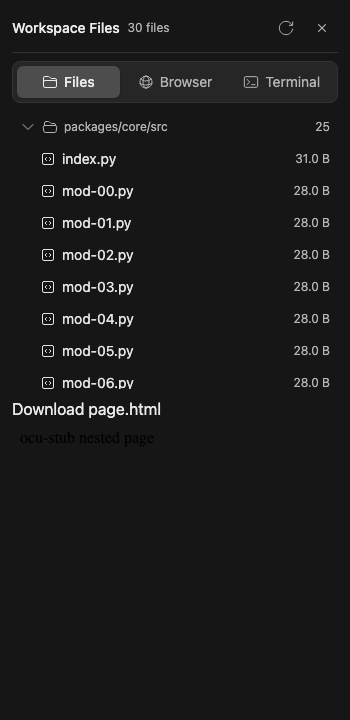
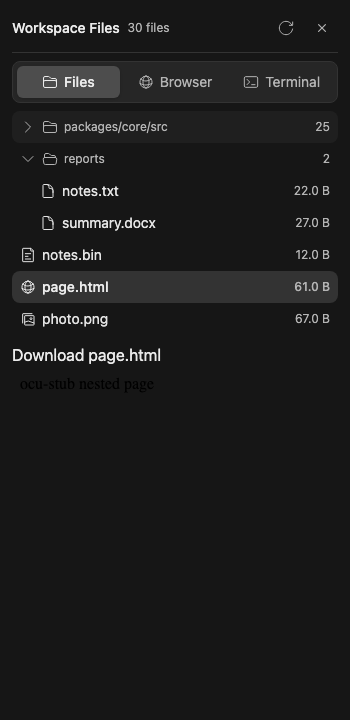
fix(webui): isolate file tree identity and collapse keys

diff --git a/src/lib/components/chat/WorkspaceArtifact.tree.test.ts b/src/lib/components/chat/WorkspaceArtifact.tree.test.ts
@@ -3,7 +3,6 @@ import { afterEach, beforeEach, describe, expect, it, vi } from 'vitest';
 import { mount, tick, unmount } from 'svelte';
 import { get } from 'svelte/store';
 import { ocuWorkspaces } from '$lib/stores/ocu';
-import { formatFileSize } from '$lib/utils';
 import WorkspaceArtifact from './WorkspaceArtifact.svelte';
 import {
 	chat,
@@ -18,7 +17,6 @@ import {
 	WORKSPACE_RECONCILIATION,
 	type WorkspaceReconciliation
 } from './workspace-reconciliation';
-import { workspaceFileKind } from './workspace-file-rows';
 import type { WorkspaceFile } from '$lib/apis/ocu';
 
 let component: Record<string, unknown> | undefined;
@@ -207,25 +205,188 @@ describe('workspace file tree presentation', () => {
 	it('maps every display kind to a decorative icon and canonical size text', async () => {
 		await open();
 		await ready('index.py');
-		const expected = {
-			'packages/core/src/index.py': { kind: 'code', size: 2048 },
-			'photo.png': { kind: 'image', size: 1024 },
-			'reports/summary.docx': { kind: 'document', size: 4096 },
-			'reports/budget.xlsx': { kind: 'sheet', size: 512 },
-			'deck.pptx': { kind: 'slides', size: 8192 },
-			'page.html': { kind: 'web', size: 256 },
-			'notes.bin': { kind: 'other', size: 64 }
+		const expected: Record<string, { kind: string; size: string }> = {
+			'packages/core/src/index.py': { kind: 'code', size: '2.0 KB' },
+			'photo.png': { kind: 'image', size: '1.0 KB' },
+			'reports/summary.docx': { kind: 'document', size: '4.0 KB' },
+			'reports/budget.xlsx': { kind: 'sheet', size: '512.0 B' },
+			'deck.pptx': { kind: 'slides', size: '8.0 KB' },
+			'page.html': { kind: 'web', size: '256.0 B' },
+			'notes.bin': { kind: 'other', size: '64.0 B' }
 		};
 		for (const [name, { kind, size }] of Object.entries(expected)) {
-			const row = nestedFiles().find((entry) => (entry.name || entry.path) === name)!;
-			expect(workspaceFileKind(row)).toBe(kind);
 			const button = fileButton(name);
 			expect(button.querySelector('svg')?.getAttribute('aria-hidden')).toBe('true');
 			expect(button.querySelector(`[data-file-kind="${kind}"]`)).not.toBeNull();
-			expect(button.textContent).toContain(formatFileSize(size));
+			expect(button.querySelector('[data-file-size]')?.textContent).toBe(size);
 			expect(button.getAttribute('aria-label')).toBe(name);
 			expect(button.querySelector('[data-file-size]')?.getAttribute('aria-hidden')).toBe('true');
+			expect(button.textContent).toContain(name.split('/').pop());
 		}
+	});
+
+	it.each(['constructor', 'toString', '__proto__'] as const)(
+		'starts %s folders expanded and toggles them without hiding other rows',
+		async (folder) => {
+			const prototypeFile = file(`${folder}/readme.txt`, `${folder}-readme.txt`);
+			const reportsFile = file('reports/summary.docx', 'reports-summary.docx');
+			const packagesFile = file('packages/core/src/index.py', 'packages-core-src-index.py');
+			const rootFile = file('page.html', 'page.html');
+			scenario = (input, init) =>
+				input.endsWith('/prefs') && init?.method === 'PUT'
+					? json({ prefs: JSON.parse(String(init.body)) })
+					: input.includes('/workspaces/')
+						? json(describeBody)
+						: json(listing([prototypeFile, reportsFile, packagesFile, rootFile]));
+			await open();
+			await ready('readme.txt');
+			const header = folderButton(folder);
+			expect(header.getAttribute('aria-expanded')).toBe('true');
+			expect(fileButton(`${folder}/readme.txt`).closest('li')?.hidden).toBe(false);
+			expect(fileButton('reports/summary.docx').closest('li')?.hidden).toBe(false);
+			expect(fileButton('packages/core/src/index.py').closest('li')?.hidden).toBe(false);
+			expect(fileButton('page.html').closest('li')?.hidden).toBe(false);
+			await namedButton('page.html').click();
+			await vi.waitFor(() => expect(get(ocuWorkspaces)[chat].selectedFileId).toBe('page.html'));
+			await vi.waitFor(() =>
+				expect(
+					calls.some((call) => call.url.endsWith('/prefs') && call.init?.method === 'PUT')
+				).toBe(true)
+			);
+			const before = calls.map((call) => `${call.init?.method ?? 'GET'} ${call.url}`);
+			header.click();
+			await tick();
+			expect(header.getAttribute('aria-expanded')).toBe('false');
+			expect(fileButton(`${folder}/readme.txt`).closest('li')?.hidden).toBe(true);
+			expect(fileButton('reports/summary.docx').closest('li')?.hidden).toBe(false);
+			expect(fileButton('packages/core/src/index.py').closest('li')?.hidden).toBe(false);
+			expect(fileButton('page.html').closest('li')?.hidden).toBe(false);
+			expect(get(ocuWorkspaces)[chat].selectedFileId).toBe('page.html');
+			header.click();
+			await tick();
+			expect(header.getAttribute('aria-expanded')).toBe('true');
+			expect(fileButton(`${folder}/readme.txt`).closest('li')?.hidden).toBe(false);
+			expect(calls.map((call) => `${call.init?.method ?? 'GET'} ${call.url}`)).toEqual(before);
+			expect(get(ocuWorkspaces)[chat].selectedFileId).toBe('page.html');
+			expect(fileButton('page.html').getAttribute('aria-pressed')).toBe('true');
+		}
+	);
+
+	it('collapses only the owning multipart folder and leaves later roots visible', async () => {
+		const nested = file('packages/core/src/index.py', 'packages-core-src-index.py');
+		const reports = file('reports/summary.docx', 'reports-summary.docx');
+		const root = file('page.html', 'page.html');
+		scenario = (input, init) =>
+			input.endsWith('/prefs') && init?.method === 'PUT'
+				? json({ prefs: JSON.parse(String(init.body)) })
+				: input.includes('/workspaces/')
+					? json(describeBody)
+					: json(listing([nested, reports, root]));
+		await open();
+		await ready('index.py');
+		folderButton('packages/core/src').click();
+		await tick();
+		expect(folderButton('packages/core/src').getAttribute('aria-expanded')).toBe('false');
+		expect(fileButton('packages/core/src/index.py').closest('li')?.hidden).toBe(true);
+		expect(folderButton('reports').getAttribute('aria-expanded')).toBe('true');
+		expect(fileButton('reports/summary.docx').closest('li')?.hidden).toBe(false);
+		expect(fileButton('page.html').closest('li')?.hidden).toBe(false);
+		folderButton('reports').click();
+		await tick();
+		expect(fileButton('reports/summary.docx').closest('li')?.hidden).toBe(true);
+		expect(fileButton('page.html').closest('li')?.hidden).toBe(false);
+	});
+
+	const collidingFileId = 'd4104ce0-5467-4e12-a39b-6066c929ae76';
+	const nestedCollisionId = 'e8b1a2c4-7d6f-4a91-9c20-1f3b5d7e9a01';
+
+	function collisionFiles(id = chat): {
+		root: WorkspaceFile;
+		nested: WorkspaceFile;
+		other: WorkspaceFile;
+	} {
+		return {
+			root: {
+				...file('page.html', collidingFileId),
+				url: `/ocu/files/${id}/page.html`
+			},
+			nested: {
+				...file(`${collidingFileId}/notes.txt`, nestedCollisionId),
+				url: `/ocu/files/${id}/${collidingFileId}/notes.txt`
+			},
+			other: {
+				...file('reports/summary.docx', 'reports-summary.docx'),
+				url: `/ocu/files/${id}/reports/summary.docx`
+			}
+		};
+	}
+
+	async function assertCollisionRows() {
+		const { root, nested } = collisionFiles();
+		const folder = folderButton(collidingFileId);
+		expect(folder.getAttribute('aria-expanded')).toBe('true');
+		expect(fileButton(`${collidingFileId}/notes.txt`)).toBeDefined();
+		expect(fileButton('page.html')).toBeDefined();
+		expect(fileButton('reports/summary.docx')).toBeDefined();
+		await namedButton(`${collidingFileId}/notes.txt`).click();
+		await vi.waitFor(() => expect(get(ocuWorkspaces)[chat].selectedFileId).toBe(nested.file_id));
+		expect(fileButton(`${collidingFileId}/notes.txt`).getAttribute('aria-pressed')).toBe('true');
+		expect(fileButton('page.html').getAttribute('aria-pressed')).toBe('false');
+		await namedButton('page.html').click();
+		await vi.waitFor(() => expect(get(ocuWorkspaces)[chat].selectedFileId).toBe(root.file_id));
+		expect(fileButton('page.html').getAttribute('aria-pressed')).toBe('true');
+		expect(fileButton(`${collidingFileId}/notes.txt`).getAttribute('aria-pressed')).toBe('false');
+		await vi.waitFor(() =>
+			expect(calls.some((call) => call.url.endsWith('/prefs') && call.init?.method === 'PUT')).toBe(
+				true
+			)
+		);
+		const before = calls.map((call) => `${call.init?.method ?? 'GET'} ${call.url}`);
+		folder.click();
+		await tick();
+		expect(folder.getAttribute('aria-expanded')).toBe('false');
+		expect(fileButton(`${collidingFileId}/notes.txt`).closest('li')?.hidden).toBe(true);
+		expect(fileButton('page.html').closest('li')?.hidden).toBe(false);
+		expect(fileButton('reports/summary.docx').closest('li')?.hidden).toBe(false);
+		expect(get(ocuWorkspaces)[chat].selectedFileId).toBe(root.file_id);
+		folder.click();
+		await tick();
+		expect(folder.getAttribute('aria-expanded')).toBe('true');
+		expect(fileButton(`${collidingFileId}/notes.txt`).closest('li')?.hidden).toBe(false);
+		expect(calls.map((call) => `${call.init?.method ?? 'GET'} ${call.url}`)).toEqual(before);
+	}
+
+	it('renders a UUID folder independently of a root file that already uses that file_id', async () => {
+		const { root, nested, other } = collisionFiles();
+		scenario = (input, init) =>
+			input.endsWith('/prefs') && init?.method === 'PUT'
+				? json({ prefs: JSON.parse(String(init.body)) })
+				: input.includes('/workspaces/')
+					? json(describeBody)
+					: json(listing([root, nested, other]));
+		await open();
+		await ready('notes.txt');
+		await assertCollisionRows();
+	});
+
+	it('keeps UUID folder and file rows distinct when pagination introduces the collision', async () => {
+		const { root, nested, other } = collisionFiles();
+		scenario = (input, init) => {
+			if (input.endsWith('/prefs') && init?.method === 'PUT')
+				return json({ prefs: JSON.parse(String(init.body)) });
+			if (input.includes('/workspaces/')) return json(describeBody);
+			if (input.includes('cursor=second')) return json(listing([nested, other], null, 1, 3));
+			return json(listing([root], 'second', 1, 3));
+		};
+		await open();
+		await ready('page.html');
+		expect([
+			...document.querySelectorAll('ul[aria-label="Workspace file list"] [aria-label^="Folder "]')
+		]).toHaveLength(0);
+		expect(fileButton('page.html')).toBeDefined();
+		namedButton('More files').click();
+		await ready('notes.txt');
+		await assertCollisionRows();
 	});
 
 	it('collapses and expands locally without requesting or changing selection', async () => {

diff --git a/e2e/ocu-tree.e2e.ts b/e2e/ocu-tree.e2e.ts
@@ -139,7 +139,64 @@ test('nested Files tree shows headers, indentation, collapse and selection geome
 		await page.reload();
 		await expect(page.locator('html')).toHaveClass(new RegExp(theme));
 		const themed = await openWorkspace(page);
-		await expect(themed.getByRole('button', { name: 'Folder packages/core/src' })).toBeVisible();
+		const packagesHeader = themed.getByRole('button', { name: 'Folder packages/core/src' });
+		const reportsHeader = themed.getByRole('button', { name: 'Folder reports' });
+		const selectedRow = themed.getByRole('button', { name: 'page.html', exact: true });
+		await expect(packagesHeader).toHaveAttribute('aria-expanded', 'true');
+		await expect(reportsHeader).toHaveAttribute('aria-expanded', 'true');
+		await selectedRow.click();
+		await expect(selectedRow).toHaveAttribute('aria-pressed', 'true');
+		await packagesHeader.click();
+		await expect(packagesHeader).toHaveAttribute('aria-expanded', 'false');
+		const framed = themed.locator('ul[aria-label="Workspace file list"]');
+		const rootRows = [
+			themed.getByRole('button', { name: 'notes.bin', exact: true }),
+			themed.getByRole('button', { name: 'page.html', exact: true }),
+			themed.getByRole('button', { name: 'photo.png', exact: true })
+		];
+		const targets = [packagesHeader, reportsHeader, ...rootRows];
+		for (const target of targets) {
+			await expect(target).toBeVisible();
+		}
+		const inView = await framed.evaluate(
+			(list, names) => {
+				const listBox = list.getBoundingClientRect();
+				const viewport = { width: window.innerWidth, height: window.innerHeight };
+				return names.map((name) => {
+					const button = [...list.querySelectorAll('button')].find(
+						(node) => node.getAttribute('aria-label') === name
+					);
+					if (!button) return { name, present: false };
+					const box = button.getBoundingClientRect();
+					return {
+						name,
+						present: true,
+						inList:
+							box.top >= listBox.top - 0.5 &&
+							box.bottom <= listBox.bottom + 0.5 &&
+							box.left >= listBox.left - 0.5 &&
+							box.right <= listBox.right + 0.5,
+						inViewport:
+							box.top >= 0 &&
+							box.left >= 0 &&
+							box.bottom <= viewport.height &&
+							box.right <= viewport.width
+					};
+				});
+			},
+			['Folder packages/core/src', 'Folder reports', 'notes.bin', 'page.html', 'photo.png']
+		);
+		for (const row of inView) {
+			expect(row.present, row.name).toBe(true);
+			expect(row.inList, row.name).toBe(true);
+			expect(row.inViewport, row.name).toBe(true);
+		}
+		const selectedProof = await selectedRow.evaluate((node) => {
+			const style = getComputedStyle(node);
+			return { weight: style.fontWeight, background: style.backgroundColor };
+		});
+		expect(Number(selectedProof.weight)).toBeGreaterThanOrEqual(500);
+		expect(selectedProof.background).not.toMatch(/rgba\(0, 0, 0, 0\)|transparent/);
 		await themed.screenshot({
 			path: `${evidence}/workspace-tree-${theme}.png`,
 			animations: 'disabled'

diff --git a/src/lib/components/chat/WorkspaceArtifact.svelte b/src/lib/components/chat/WorkspaceArtifact.svelte
@@ -247,19 +247,27 @@
 		void controller.more();
 	}
 
-	let collapsedFolders: Record<string, true> = {};
+	let collapsedFolders = new Set<string>();
 	function toggleFolder(path: string) {
-		collapsedFolders = collapsedFolders[path]
-			? Object.fromEntries(Object.entries(collapsedFolders).filter(([key]) => key !== path))
-			: { ...collapsedFolders, [path]: true };
+		const next = new Set(collapsedFolders);
+		if (next.has(path)) next.delete(path);
+		else next.add(path);
+		collapsedFolders = next;
 	}
-	function folderOf(index: number) {
-		for (let cursor = index - 1; cursor >= 0; cursor--) {
-			const prior = fileRows[cursor];
-			if (prior.kind === 'folder') return prior.path;
+	$: fileFolder = (() => {
+		const membership: string[] = [];
+		let current = '';
+		for (const row of fileRows) {
+			if (row.kind === 'folder') {
+				current = row.path;
+				membership.push('');
+				continue;
+			}
+			membership.push(row.nested ? current : '');
+			if (!row.nested) current = '';
 		}
-		return '';
-	}
+		return membership;
+	})();
 	const FILE_KIND_ICONS = {
 		web: GlobeAlt,
 		image: Photo,
@@ -454,17 +462,17 @@
 				aria-label={$i18n.t('Workspace file list')}
 				class="min-h-0 overflow-y-auto {selected ? 'max-h-[40%] shrink-0' : 'flex-1'}"
 			>
-				{#each fileRows as row, index (row.kind === 'folder' ? row.path : row.file.file_id)}
+				{#each fileRows as row, index (row.kind === 'folder' ? `folder:${row.path}` : `file:${row.file.file_id}`)}
 					{#if row.kind === 'folder'}
 						<li>
 							<button
 								type="button"
 								class="flex h-8 w-full items-center gap-1.5 rounded-lg px-2 text-left text-xs text-gray-500 hover:bg-gray-50 focus-visible:ring-2 focus-visible:ring-gray-400 dark:text-gray-400 dark:hover:bg-white/4"
 								aria-label={$i18n.t('Folder {{path}}', { path: row.path })}
-								aria-expanded={!collapsedFolders[row.path]}
+								aria-expanded={!collapsedFolders.has(row.path)}
 								on:click={() => toggleFolder(row.path)}
 							>
-								{#if collapsedFolders[row.path]}
+								{#if collapsedFolders.has(row.path)}
 									<ChevronRight className="size-4 shrink-0" />
 									<Folder className="size-4 shrink-0" />
 								{:else}
@@ -479,8 +487,8 @@
 						{@const fileKind = workspaceFileKind(row.file)}
 						{@const KindIcon = FILE_KIND_ICONS[fileKind]}
 						{@const accessibleName = row.file.name || row.file.path}
-						{@const folder = row.nested ? folderOf(index) : ''}
-						<li hidden={row.nested && !!collapsedFolders[folder]}>
+						{@const folder = fileFolder[index] ?? ''}
+						<li hidden={row.nested && collapsedFolders.has(folder)}>
 							<Tooltip content={row.name} className="block w-full" as="div">
 								<button
 									type="button"

diff --git a/docs/decisions/implemented/architecture/2026-10-04-ocu-workspace-file-tree.md b/docs/decisions/implemented/architecture/2026-10-04-ocu-workspace-file-tree.md
@@ -16,13 +16,16 @@ A column of bare names hides directory context, kind and size, and selected iden
 
 ## Decision
 
-`WorkspaceArtifact` consumes `buildWorkspaceFileRows` and `workspaceFileKind` unchanged. Folder headers are real buttons whose accessible name starts with `Folder` and whose `aria-expanded` tracks a panel-local collapsed-path map that starts expanded and resets when the panel unmounts. File buttons keep accessible name `file.name || file.path`; visible text and tooltip use the display-row name; kind icons and formatted size are decorative. Selected rows keep `aria-pressed=true` and a filled background with stronger text. Collapse never requests, retargets, or persists. More files stays a named muted control outside the `ul`. With a selection the scrolling list is capped near two fifths of the panel; without one it fills remaining height. Header, selected-file bar, frame policy and Office re-click remain the existing controller contracts.
+`WorkspaceArtifact` consumes `buildWorkspaceFileRows` and `workspaceFileKind` unchanged. Folder headers are real buttons whose accessible name starts with `Folder` and whose `aria-expanded` tracks a panel-local collapsed-path `Set` that starts empty (every group expanded) and resets when the panel unmounts. File-row folder membership is derived once from those canonical rows in a single forward pass; root rows after a group do not inherit it. The keyed each namespaces presentation identity as `folder:<path>` and `file:<file_id>` without changing domain paths, file IDs, selection, or reconciliation. File buttons keep accessible name `file.name || file.path`; visible text and tooltip use the display-row name; kind icons and formatted size are decorative. Selected rows keep `aria-pressed=true` and a filled background with stronger text. Collapse never requests, retargets, or persists. More files stays a named muted control outside the `ul`. With a selection the scrolling list is capped near two fifths of the panel; without one it fills remaining height. Header, selected-file chrome, and preview policy stay unchanged.
 
 ## Alternatives considered
 
 - **Persist collapsed folders** — would invent a preference the listing identity contract does not own.
 - **Export a type alias or second classifier** — duplicates #180 and can drift from preview/edit eligibility.
 - **Put More files inside the list** — would break `ul li` pagination counts used by existing browser cases.
+- **Ordinary object collapse map** — inherited `constructor`/`toString`/`__proto__` look already collapsed, and the removal branch cannot clear them.
+- **Share keyed-each keys between folder path and file_id** — a UUID-named directory collides with a distinct file that already uses that id.
+- **Per-row backscan for folder membership** — repeats grouping already present in the canonical row list.
 
 ## Consequences
 
